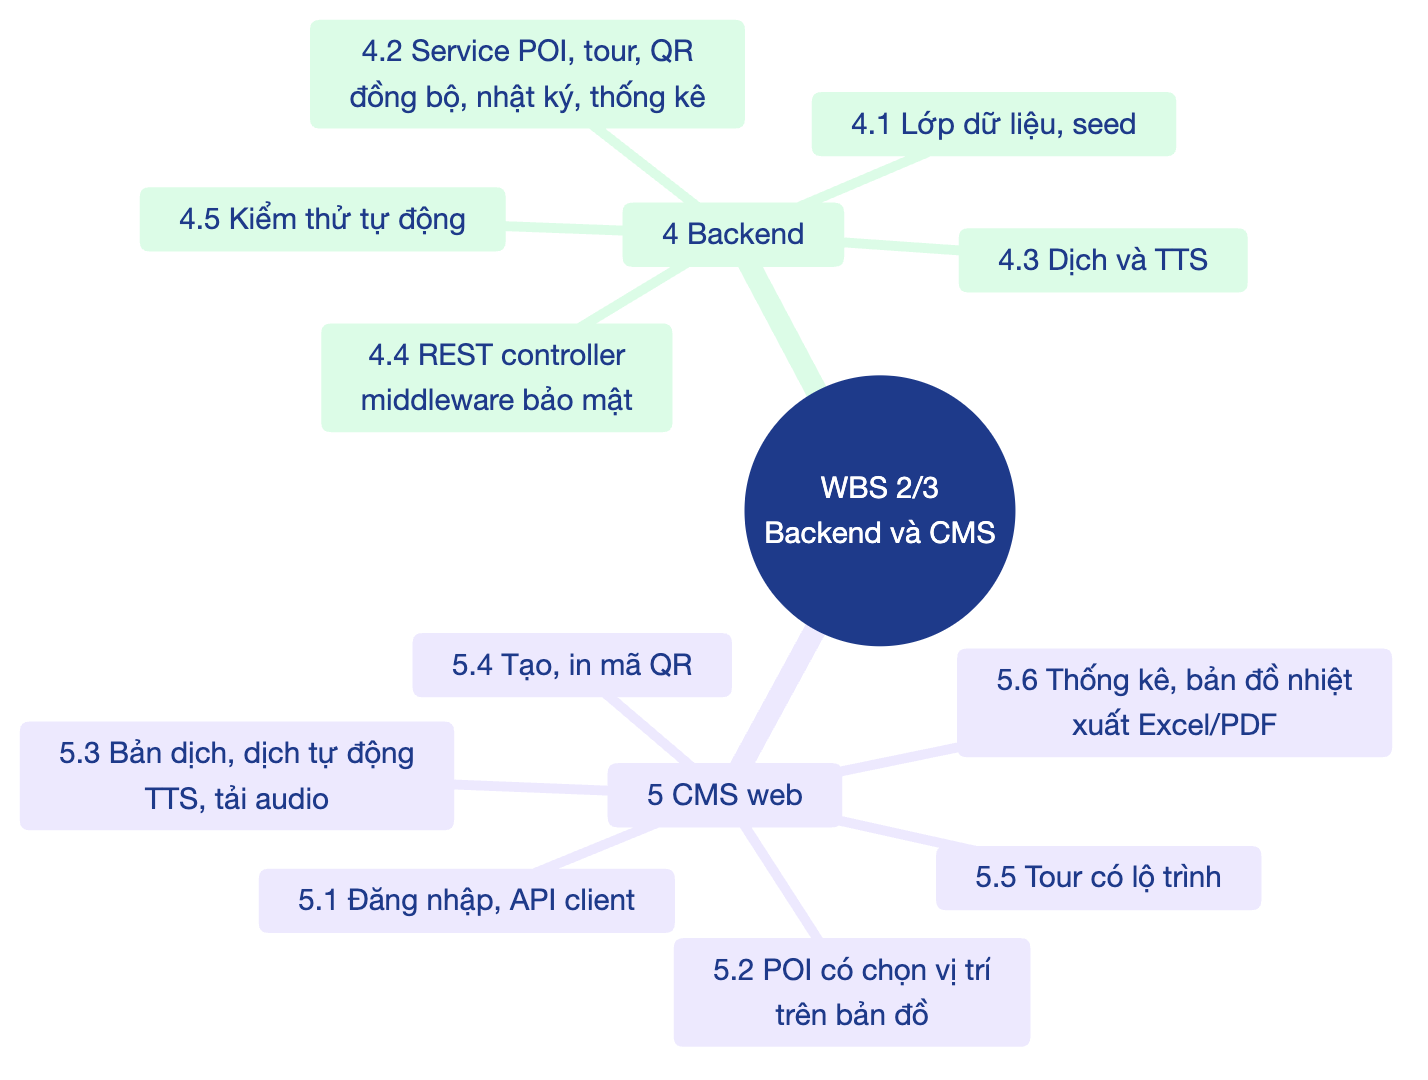
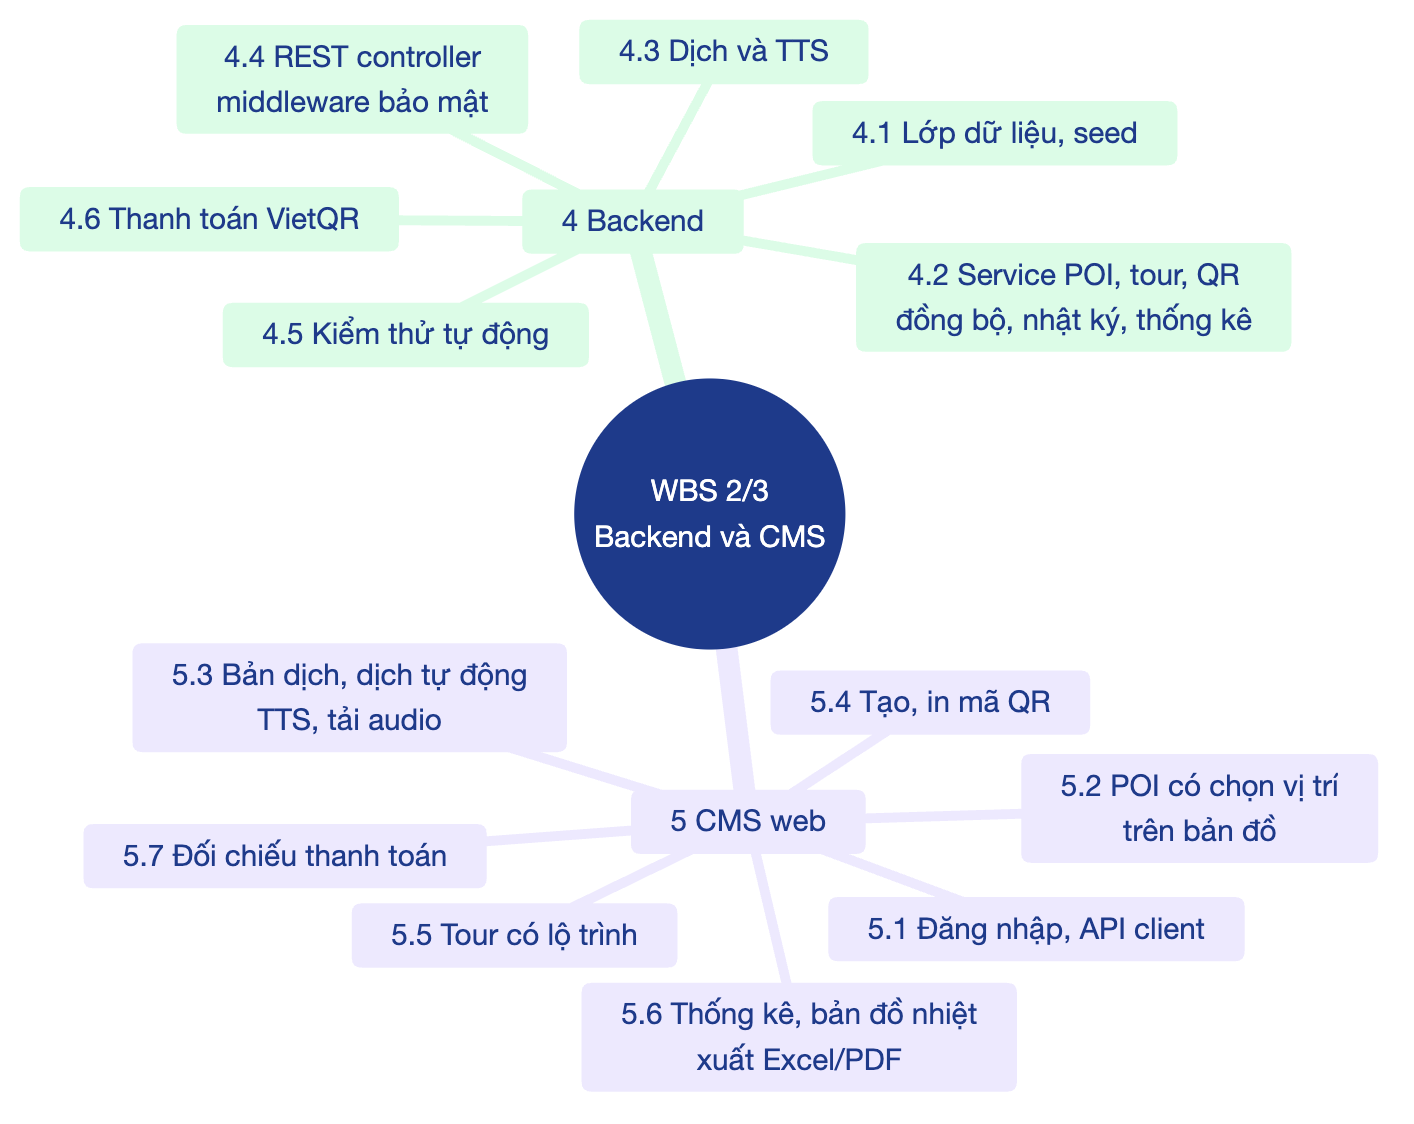
Phân công từng hạng mục WBS cho thành viên, liên kết issue và cập nhật mốc tiến độ

diff --git a/docs/06-project-management.md b/docs/06-project-management.md
@@ -95,6 +95,7 @@ mindmap
       4.3 Dịch và TTS
       4.4 REST controller<br/>middleware bảo mật
       4.5 Kiểm thử tự động
+      4.6 Thanh toán VietQR
     5 CMS web
       5.1 Đăng nhập, API client
       5.2 POI có chọn vị trí<br/>trên bản đồ
@@ -102,6 +103,7 @@ mindmap
       5.4 Tạo, in mã QR
       5.5 Tour có lộ trình
       5.6 Thống kê, bản đồ nhiệt<br/>xuất Excel/PDF
+      5.7 Đối chiếu thanh toán
 ```
 *Hình: WBS phần 2, nhánh 4 và 5*
 
@@ -120,12 +122,14 @@ mindmap
     7 Kiểm thử
       7.1 Kế hoạch, ca kiểm thử
       7.2 Đơn vị và API
-      7.3 Hệ thống CMS, ứng dụng
-      7.4 Thực địa POI, trạm xe buýt
+      7.3 Hệ thống CMS
+      7.4 Ứng dụng trên thiết bị
+      7.5 Thực địa POI, trạm xe buýt
     8 Triển khai, tài liệu
       8.1 Máy chủ HTTPS, sao lưu
       8.2 Cài đặt, sử dụng
       8.3 Báo cáo cuối kỳ, demo
+      8.4 Website công khai<br/>tên miền riêng
 ```
 *Hình: WBS phần 3, nhánh 6 đến 8*
 
@@ -149,6 +153,7 @@ mindmap
    4.3 Nhà cung cấp dịch và TTS
    4.4 REST controller, middleware bảo mật
    4.5 Kiểm thử tự động
+   4.6 Thanh toán VietQR cho điểm có phí
 5  CMS web
    5.1 Đăng nhập và API client
    5.2 Quản lý POI có chọn vị trí trên bản đồ
@@ -156,6 +161,7 @@ mindmap
    5.4 Tạo và in mã QR
    5.5 Quản lý tour có đường lộ trình trên bản đồ
    5.6 Bảng thống kê, bản đồ nhiệt, xuất Excel/PDF
+   5.7 Trang đối chiếu thanh toán
 6  Ứng dụng di động
    6.1 Lớp nội dung ngoại tuyến và đồng bộ
    6.2 Dịch vụ vị trí (tiền cảnh và nền)
@@ -167,13 +173,69 @@ mindmap
 7  Kiểm thử
    7.1 Kế hoạch kiểm thử và ca kiểm thử
    7.2 Kiểm thử đơn vị và kiểm thử API
-   7.3 Kiểm thử hệ thống (CMS, ứng dụng)
-   7.4 Kiểm thử thực địa tại POI và trạm xe buýt
+   7.3 Kiểm thử hệ thống CMS
+   7.4 Kiểm thử ứng dụng trên thiết bị Android và iOS
+   7.5 Kiểm thử thực địa tại POI và trạm xe buýt
 8  Triển khai và tài liệu
    8.1 Triển khai lên máy chủ (HTTPS, sao lưu)
    8.2 Hướng dẫn cài đặt, hướng dẫn sử dụng
    8.3 Báo cáo cuối kỳ và demo
+   8.4 Website công khai và tên miền riêng (QR mở /q/<mã>)
 ```
+
+### Phân công theo hạng mục WBS
+
+Mỗi hạng mục WBS là 1 issue trên GitHub, gắn người phụ trách (assignee), nhãn theo phần việc và milestone M1–M5. Hạng mục xong thì issue được đóng kèm commit/PR làm bằng chứng. Hiện có 39 hạng mục: 33 hoàn thành, 6 đang làm.
+
+| WBS | Hạng mục | Người phụ trách | Issue | Trạng thái |
+|---|---|---|---|---|
+| 1.1 | Lập kế hoạch, lịch trình, theo dõi rủi ro | AiraLeFatale | [#10](https://github.com/AiraLeFatale/CongNghePhanMem_Project/issues/10) | Hoàn thành |
+| 1.2 | Họp hằng tuần và báo cáo tiến độ | AiraLeFatale | [#11](https://github.com/AiraLeFatale/CongNghePhanMem_Project/issues/11) | Đang làm |
+| 2.1 | Phác thảo kiến trúc (README) | AiraLeFatale | [#12](https://github.com/AiraLeFatale/CongNghePhanMem_Project/issues/12) | Hoàn thành |
+| 2.2 | Các ca sử dụng trọng tâm UC1–UC5 | AiraLeFatale | [#13](https://github.com/AiraLeFatale/CongNghePhanMem_Project/issues/13) | Hoàn thành |
+| 2.3 | SRS (FR/NFR, quy tắc nghiệp vụ, truy vết) | AiraLeFatale | [#14](https://github.com/AiraLeFatale/CongNghePhanMem_Project/issues/14) | Hoàn thành |
+| 3.1 | Thiết kế kiến trúc và triển khai | hungphamwp | [#15](https://github.com/AiraLeFatale/CongNghePhanMem_Project/issues/15) | Hoàn thành |
+| 3.2 | Thiết kế cơ sở dữ liệu (ERD, schema) | hungphamwp | [#16](https://github.com/AiraLeFatale/CongNghePhanMem_Project/issues/16) | Hoàn thành |
+| 3.3 | Hợp đồng REST API | hungphamwp | [#17](https://github.com/AiraLeFatale/CongNghePhanMem_Project/issues/17) | Hoàn thành |
+| 3.4 | Thiết kế bộ máy geofence và bộ máy thuyết minh | hungphamwp | [#18](https://github.com/AiraLeFatale/CongNghePhanMem_Project/issues/18) | Hoàn thành |
+| 3.5 | Thiết kế giao diện (màn hình CMS, màn hình ứng dụng) | duyttg144-cyber, hungphamwp | [#19](https://github.com/AiraLeFatale/CongNghePhanMem_Project/issues/19) | Hoàn thành |
+| 4.1 | Backend: lớp dữ liệu (schema, repository, dữ liệu mẫu) | hungphamwp | [#20](https://github.com/AiraLeFatale/CongNghePhanMem_Project/issues/20) | Hoàn thành |
+| 4.2 | Backend: service (POI, tour, QR, đồng bộ, nhật ký, thống kê, xác thực) | hungphamwp | [#21](https://github.com/AiraLeFatale/CongNghePhanMem_Project/issues/21) | Hoàn thành |
+| 4.3 | Backend: nhà cung cấp dịch và TTS | hungphamwp | [#22](https://github.com/AiraLeFatale/CongNghePhanMem_Project/issues/22) | Hoàn thành |
+| 4.4 | Backend: REST controller, middleware bảo mật | hungphamwp | [#23](https://github.com/AiraLeFatale/CongNghePhanMem_Project/issues/23) | Hoàn thành |
+| 4.5 | Backend: kiểm thử tự động | hungphamwp, AiraLeFatale | [#24](https://github.com/AiraLeFatale/CongNghePhanMem_Project/issues/24) | Hoàn thành |
+| 4.6 | Backend: thanh toán VietQR cho điểm có phí | hungphamwp | [#25](https://github.com/AiraLeFatale/CongNghePhanMem_Project/issues/25) | Hoàn thành |
+| 5.1 | CMS: đăng nhập và API client | duyttg144-cyber | [#26](https://github.com/AiraLeFatale/CongNghePhanMem_Project/issues/26) | Hoàn thành |
+| 5.2 | CMS: quản lý POI có chọn vị trí trên bản đồ | duyttg144-cyber | [#27](https://github.com/AiraLeFatale/CongNghePhanMem_Project/issues/27) | Hoàn thành |
+| 5.3 | CMS: tab bản dịch, dịch tự động, TTS, tải lên audio | duyttg144-cyber | [#28](https://github.com/AiraLeFatale/CongNghePhanMem_Project/issues/28) | Hoàn thành |
+| 5.4 | CMS: tạo và in mã QR | duyttg144-cyber | [#29](https://github.com/AiraLeFatale/CongNghePhanMem_Project/issues/29) | Hoàn thành |
+| 5.5 | CMS: quản lý tour có đường lộ trình trên bản đồ | duyttg144-cyber | [#30](https://github.com/AiraLeFatale/CongNghePhanMem_Project/issues/30) | Hoàn thành |
+| 5.6 | CMS: bảng thống kê, bản đồ nhiệt, xuất Excel/PDF | duyttg144-cyber | [#31](https://github.com/AiraLeFatale/CongNghePhanMem_Project/issues/31) | Hoàn thành |
+| 5.7 | CMS: trang đối chiếu thanh toán | duyttg144-cyber | [#32](https://github.com/AiraLeFatale/CongNghePhanMem_Project/issues/32) | Hoàn thành |
+| 6.1 | Mobile: lớp nội dung ngoại tuyến và đồng bộ | hungphamwp | [#33](https://github.com/AiraLeFatale/CongNghePhanMem_Project/issues/33) | Hoàn thành |
+| 6.2 | Mobile: dịch vụ vị trí (tiền cảnh và nền) | hungphamwp | [#34](https://github.com/AiraLeFatale/CongNghePhanMem_Project/issues/34) | Hoàn thành |
+| 6.3 | Mobile: bộ máy geofence | hungphamwp | [#35](https://github.com/AiraLeFatale/CongNghePhanMem_Project/issues/35) | Hoàn thành |
+| 6.4 | Mobile: bộ máy thuyết minh (audio, TTS trên máy, thời gian chờ phát lại) | hungphamwp | [#36](https://github.com/AiraLeFatale/CongNghePhanMem_Project/issues/36) | Hoàn thành |
+| 6.5 | Mobile: trình quét QR | hungphamwp | [#37](https://github.com/AiraLeFatale/CongNghePhanMem_Project/issues/37) | Hoàn thành |
+| 6.6 | Mobile: hàng đợi nhật ký và gửi lên máy chủ | hungphamwp | [#38](https://github.com/AiraLeFatale/CongNghePhanMem_Project/issues/38) | Hoàn thành |
+| 6.7 | Mobile: giao diện bản đồ, danh sách, tour, cài đặt; chế độ mô phỏng vị trí | hungphamwp | [#39](https://github.com/AiraLeFatale/CongNghePhanMem_Project/issues/39) | Hoàn thành |
+| 7.1 | Kế hoạch kiểm thử và ca kiểm thử | AiraLeFatale | [#40](https://github.com/AiraLeFatale/CongNghePhanMem_Project/issues/40) | Hoàn thành |
+| 7.2 | Kiểm thử đơn vị và kiểm thử API | AiraLeFatale, hungphamwp | [#41](https://github.com/AiraLeFatale/CongNghePhanMem_Project/issues/41) | Hoàn thành |
+| 7.3 | Kiểm thử hệ thống CMS | duyttg144-cyber | [#42](https://github.com/AiraLeFatale/CongNghePhanMem_Project/issues/42) | Đang làm |
+| 7.4 | Kiểm thử ứng dụng trên thiết bị Android và iOS | duyttg144-cyber, hungphamwp | [#43](https://github.com/AiraLeFatale/CongNghePhanMem_Project/issues/43) | Đang làm |
+| 7.5 | Kiểm thử thực địa tại POI và trạm xe buýt | AiraLeFatale, duyttg144-cyber | [#44](https://github.com/AiraLeFatale/CongNghePhanMem_Project/issues/44) | Đang làm |
+| 8.1 | Triển khai lên máy chủ (HTTPS, sao lưu) | hungphamwp | [#45](https://github.com/AiraLeFatale/CongNghePhanMem_Project/issues/45) | Đang làm |
+| 8.2 | Hướng dẫn cài đặt, hướng dẫn sử dụng | duyttg144-cyber | [#46](https://github.com/AiraLeFatale/CongNghePhanMem_Project/issues/46) | Hoàn thành |
+| 8.3 | Báo cáo cuối kỳ và demo | AiraLeFatale, hungphamwp, duyttg144-cyber | [#47](https://github.com/AiraLeFatale/CongNghePhanMem_Project/issues/47) | Đang làm |
+| 8.4 | Website công khai và tên miền riêng (QR mở /q/<mã>) | hungphamwp | [#48](https://github.com/AiraLeFatale/CongNghePhanMem_Project/issues/48) | Hoàn thành |
+
+Số hạng mục theo người phụ trách (1 hạng mục có thể nhiều người):
+
+| Thành viên | Số hạng mục | Phần chính |
+|---|---|---|
+| AiraLeFatale | 10 | Quản lý dự án, yêu cầu, kế hoạch kiểm thử, kiểm thử thực địa, báo cáo |
+| hungphamwp | 23 | Thiết kế, backend, ứng dụng di động, triển khai |
+| duyttg144-cyber | 13 | Giao diện và chức năng CMS, kiểm thử hệ thống CMS, kiểm thử thiết bị, hướng dẫn sử dụng |
 
 ## 3. Tiến độ và các mốc
 
@@ -186,12 +248,16 @@ mindmap
 | 18/10/2026 | SRS, thiết kế, kế hoạch kiểm thử (test plan), hướng dẫn cài đặt và hướng dẫn sử dụng (bộ tài liệu này), đã đối chiếu với code | Hoàn thành |
 | đến 18/10/2026 | Bản tăng trưởng CMS: đủ các trang, 36 kiểm thử đơn vị Đạt, chạy E2E trên trình duyệt với backend thật | Hoàn thành (còn phải kiểm tra hộp thoại in, giao diện đổi mật khẩu và bản build production) |
 | đến 18/10/2026 | Bản tăng trưởng mobile: đủ các mô-đun, 62 kiểm thử đơn vị + 5 kiểm thử với backend thật Đạt, kiểm tra kiểu, expo-doctor và xuất bundle không lỗi | Hoàn thành về code; chưa chạy trên thiết bị |
-| Chưa xác định | Kiểm thử ứng dụng trên thiết bị (các ca Chờ thiết bị trong kế hoạch kiểm thử) trên Android và iOS | Chưa bắt đầu |
-| Chưa xác định | Kiểm thử thực địa FT-01 đến FT-09 tại POI và trạm xe buýt thật | Chưa bắt đầu |
-| Chưa xác định | Triển khai lên máy chủ có HTTPS | Chưa bắt đầu |
-| Chưa xác định | Báo cáo cuối kỳ và demo | Chưa bắt đầu |
+| 27/10/2026 | CI GitHub Actions chạy test backend và CMS, bổ sung kiểm thử dịch vụ dịch, QR, lưu trữ CMS (PR #8, #9) | Hoàn thành |
+| 01/11/2026 | Triển khai lên máy chủ có HTTPS (https://thuyetminh.hmarketing.vn), website công khai, thanh toán VietQR | Hoàn thành (còn xác nhận sao lưu hằng ngày, đổi mật khẩu admin: #45) |
+| 16/11/2026 | Phân công vai trò và giao issue theo từng hạng mục WBS (#10–#48) | Hoàn thành |
+| Chưa xác định | Kiểm thử ứng dụng trên thiết bị Android và iOS (các ca Chờ thiết bị trong kế hoạch kiểm thử): #43 | Chưa bắt đầu |
+| Chưa xác định | Kiểm thử thực địa FT-01 đến FT-09 tại POI và trạm xe buýt thật: #44 | Chưa bắt đầu |
+| Chưa xác định | Báo cáo cuối kỳ và demo: #47 | Chưa bắt đầu |
 
 Các ngày "Chưa xác định" sẽ do nhóm ấn định dựa theo hạn nộp đồ án.
+
+Trên GitHub, các mốc được gom thành 5 milestone: M1 Yêu cầu và thiết kế (28/09), M2 Bản tăng trưởng backend, CMS, mobile (18/10), M3 Triển khai và website công khai (01/11), M4 Kiểm thử thiết bị và thực địa, M5 Báo cáo cuối kỳ và demo.
 
 ```mermaid
 %%{init: {"theme":"base","fontFamily":"Helvetica Neue, Arial, sans-serif","themeVariables":{"fontFamily":"Helvetica Neue, Arial, sans-serif","fontSize":"15px","primaryColor":"#EFF6FF","primaryBorderColor":"#3B82F6","primaryTextColor":"#0F172A","lineColor":"#64748B","secondaryColor":"#F0FDF4","tertiaryColor":"#FFFFFF","clusterBkg":"#F8FAFC","clusterBorder":"#CBD5E1","edgeLabelBackground":"#FFFFFF","noteBkgColor":"#FEF9C3","noteBorderColor":"#EAB308","actorBkg":"#DBEAFE","actorBorder":"#2563EB","actorTextColor":"#1E3A8A","signalColor":"#475569","signalTextColor":"#0F172A","labelBoxBkgColor":"#F1F5F9","labelBoxBorderColor":"#94A3B8","activationBkgColor":"#E0F2FE","activationBorderColor":"#0284C7","sequenceNumberColor":"#FFFFFF","pie1":"#16A34A","pie2":"#F59E0B","pie3":"#94A3B8","pie4":"#DC2626","pie5":"#2563EB","pie6":"#7C3AED","pieStrokeColor":"#FFFFFF","pieSectionTextColor":"#FFFFFF","quadrant1Fill":"#FEE2E2","quadrant2Fill":"#FEF3C7","quadrant3Fill":"#DCFCE7","quadrant4Fill":"#FEF3C7","quadrantPointFill":"#1E3A8A","quadrantPointTextFill":"#0F172A","git0":"#1E3A8A","gitBranchLabel0":"#FFFFFF","cScale0":"#DBEAFE","cScale1":"#DCFCE7","cScale2":"#EDE9FE","cScale3":"#FEF3C7","cScale4":"#FFE4E6","cScale5":"#E0F2FE","cScale6":"#F1F5F9"},"flowchart":{"curve":"basis","padding":16,"nodeSpacing":40,"rankSpacing":50},"sequence":{"showSequenceNumbers":true,"mirrorActors":false}}}%%
@@ -207,6 +273,10 @@ gantt
     Hoàn thành code backend, CMS và ứng dụng :milestone, m3, 2026-10-18, 0d
     section Tài liệu
     Bộ tài liệu v1.0               :milestone, m4, 2026-10-18, 0d
+    section Triển khai
+    CI và kiểm thử bổ sung         :milestone, m5, 2026-10-27, 0d
+    HTTPS, website công khai       :milestone, m6, 2026-11-01, 0d
+    Giao issue theo WBS            :milestone, m7, 2026-11-16, 0d
 ```
 
 Biểu đồ chỉ thể hiện các ngày có ghi nhận trong lịch sử kho mã hoặc trong tài liệu. Ngày bắt đầu làm backend không được ghi nhận trong kho mã chung nên không đưa vào.
